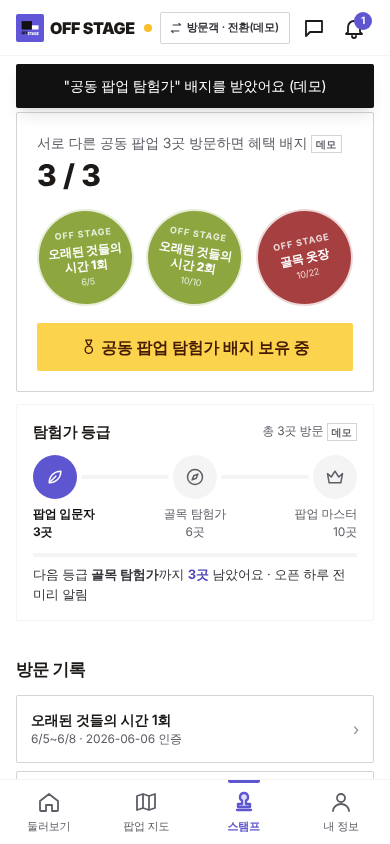
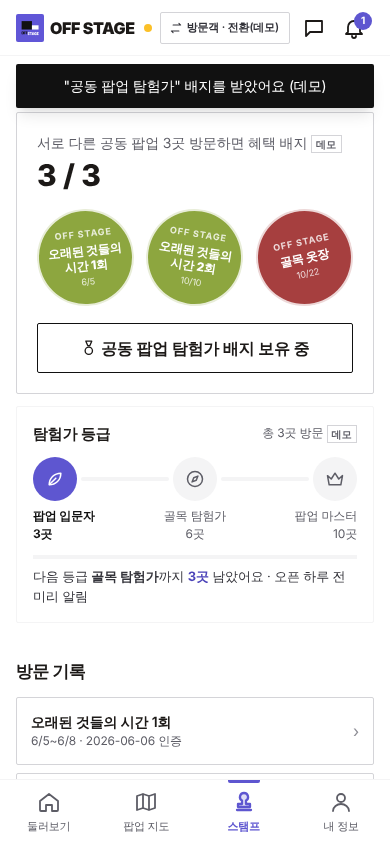
강조색을 보라 하나로: 장식용 노랑·초록·빨강 걷어냄
Claude-Session: https://claude.ai/code/session_0127PgxmrWax7HLBrSWBod79

diff --git a/src/screens/Showcase.tsx b/src/screens/Showcase.tsx
@@ -37,7 +37,7 @@ export function ShowcaseList() {
               <div className="font-bold">{s.title}</div>
               <div className="text-[12px] text-ink-500 mt-0.5">{period(s.period)} · {sp?.name} · {teamById(db, s.teamId)?.name}</div>
               <div className="text-[12px] font-semibold text-ink-700 mt-1.5">{s.brandIds.map((b) => `@${brandById(db, b)?.name}`).join('  ')}</div>
-              <p className="text-[13px] text-ink-700 mt-2 line-clamp-2"><Ic n="bulb" className="text-amber-600" />{s.tips}</p>
+              <p className="text-[13px] text-ink-700 mt-2 line-clamp-2"><Ic n="bulb" className="text-ink-500" />{s.tips}</p>
               <div className="text-[12px] text-ink-500 mt-2 flex items-center gap-1"><Icon name="heart" filled={!!s.helpful?.length} className="w-3.5 h-3.5 text-brand-500" /> 팁이 도움됐어요 {s.helpful?.length ?? 0}</div>
             </div>
           </Card>
@@ -86,7 +86,7 @@ export function ShowcaseDetail({ id }: { id: string }) {
           {(() => {
             const on = !!s.helpful?.includes(userId);
             return (
-              <button onClick={() => toggleShowcaseHelpful(s.id, userId)} className={cx('mt-3 h-9 px-3.5 rounded text-[13px] font-semibold flex items-center gap-1.5', on ? 'bg-amber-900 text-white' : 'bg-white text-ink-900 border border-amber-200')}>
+              <button onClick={() => toggleShowcaseHelpful(s.id, userId)} className={cx('mt-3 h-9 px-3.5 rounded text-[13px] font-semibold flex items-center gap-1.5', on ? 'bg-brand-500 text-white' : 'bg-white text-ink-900 border border-ink-300')}>
                 <Icon name="heart" filled={on} className="w-4 h-4" /> 팁이 도움됐어요 {s.helpful?.length ?? 0}
               </button>
             );

diff --git a/src/screens/Onboarding.tsx b/src/screens/Onboarding.tsx
@@ -115,10 +115,10 @@ function BizVerify({ status, role }: { status: string; role: Role }) {
         </>
       )}
       {status === 'pending' && (
-        <div className="rounded bg-amber-50 border border-amber-200 p-5 text-center">
-          <div className="w-10 h-10 mx-auto rounded-full border-4 border-amber-300 border-t-amber-600 animate-spin mb-3" />
-          <div className="font-bold text-amber-800">인증 대기 중</div>
-          <div className="text-sm text-amber-700 mt-1">국세청 정보와 대조하고 있어요 (데모: 2초 뒤 완료)</div>
+        <div className="rounded border border-ink-300 p-5 text-center">
+          <div className="w-10 h-10 mx-auto rounded-full border-4 border-ink-100 border-t-brand-500 animate-spin mb-3" />
+          <div className="font-bold text-ink-900">인증 대기 중</div>
+          <div className="text-sm text-ink-500 mt-1">국세청 정보와 대조하고 있어요 (데모: 2초 뒤 완료)</div>
         </div>
       )}
       {status === 'verified' && (

diff --git a/src/screens/Team.tsx b/src/screens/Team.tsx
@@ -552,7 +552,7 @@ function downloadShiftIcs(teamName: string, place: string, keys: string[]) {
 function ShiftTab({ team }: { team: Team }) {
   const { db, brand } = useMe();
   const sh = db.shifts.find((s) => s.teamId === team.id)!;
-  const colors = ['bg-ink-100 text-ink-700', 'bg-ink-100 text-ink-700', 'bg-emerald-100 text-emerald-700', 'bg-ink-100 text-ink-700', 'bg-red-50 text-red-600', 'bg-amber-100 text-amber-800'];
+  const colors = ['bg-ink-100 text-ink-700', 'bg-ink-100 text-ink-700', 'bg-ink-100 text-ink-700', 'bg-ink-100 text-ink-700', 'bg-ink-100 text-ink-700', 'bg-ink-100 text-ink-700'];
   const colorOf = (bid?: string) => colors[team.members.findIndex((m) => m.brandId === bid) % colors.length];
   const counts = team.members.map((m) => ({ m, n: Object.values(sh.assign).filter((x) => x === m.brandId).length }));
   const ended = team.stage === '종료';

diff --git a/src/screens/Popup.tsx b/src/screens/Popup.tsx
@@ -399,7 +399,7 @@ export function StampsTab() {
           </div>
           {n >= STAMP_GOAL && (
             st.rewardClaimed ? (
-              <div className="mt-4 rounded bg-amber-300 text-amber-950 p-3 text-center font-bold"><Ic n="medal" />공동 팝업 탐험가 배지 보유 중</div>
+              <div className="mt-4 rounded border border-ink-900 p-3 text-center font-bold"><Ic n="medal" />공동 팝업 탐험가 배지 보유 중</div>
             ) : (
               <Button full className="mt-4" onClick={() => claimStampReward(userId)}>혜택 배지 받기</Button>
             )
